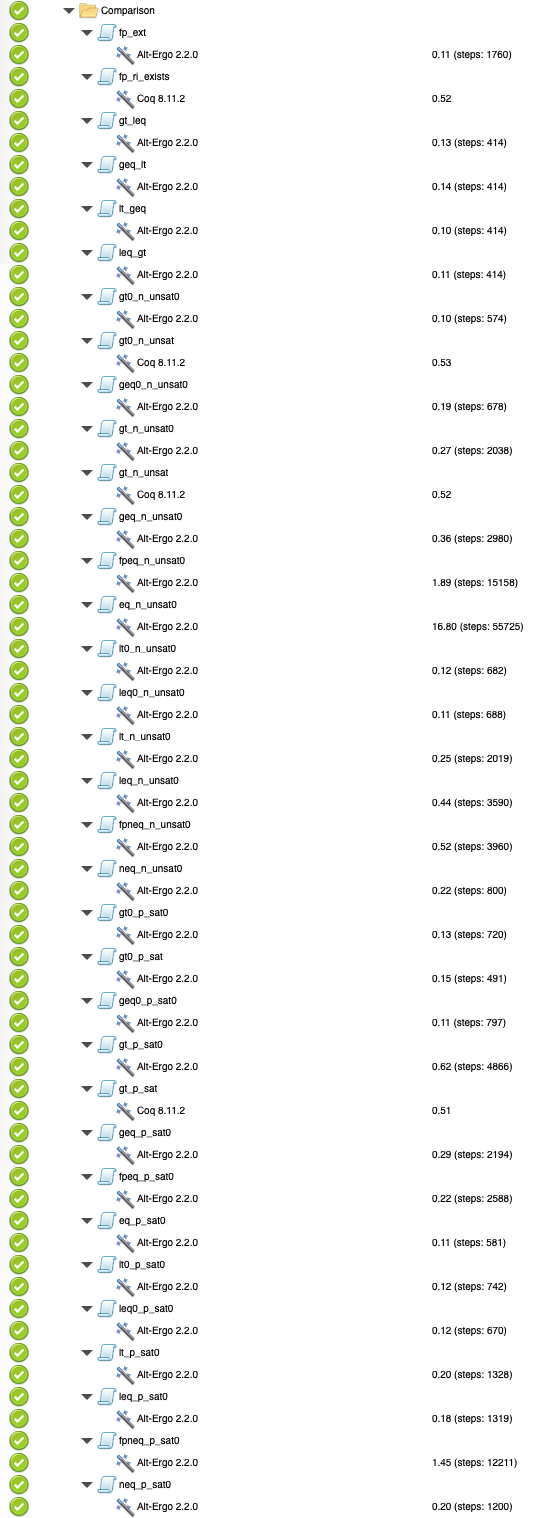
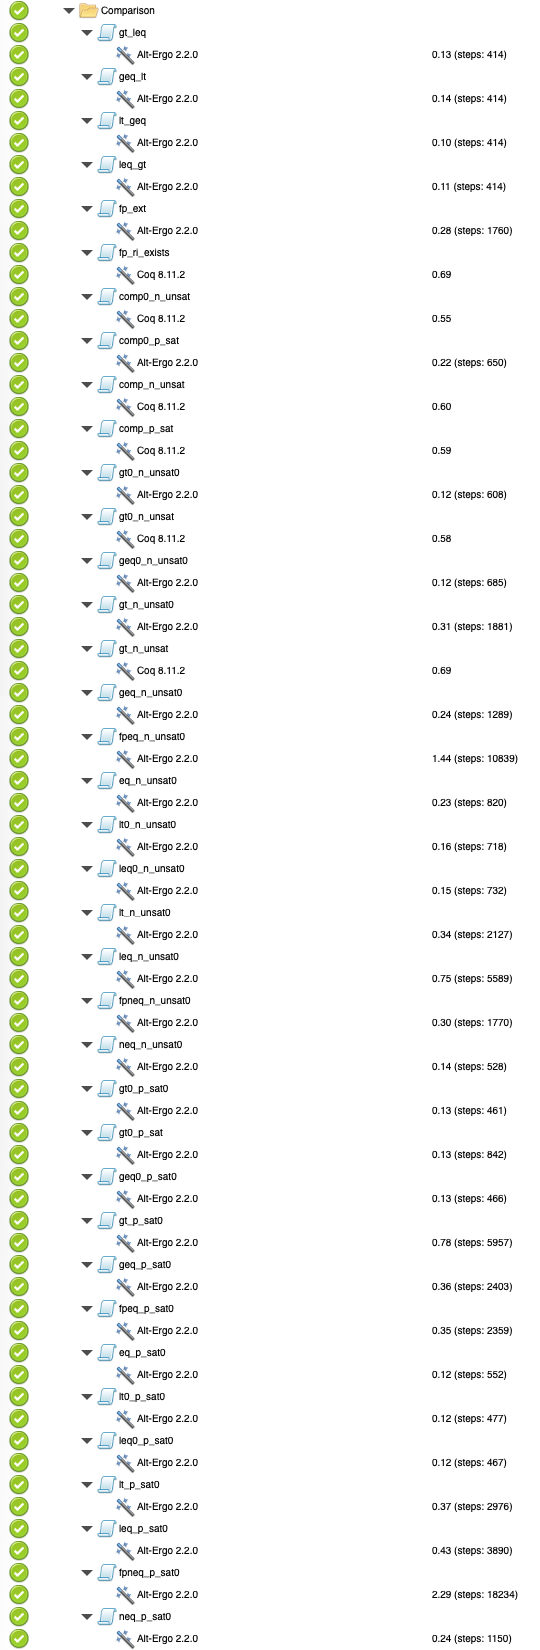
Modify the formalization of comparison operators.

Changed region(s): [[0.1481, 0.0, 0.3852, 1.0], [0.8, 0.031, 0.9481, 1.0], [0.0, 0.0, 0.0593, 1.0]]

diff --git a/README.md b/README.md
@@ -9,13 +9,15 @@ This repository aims to provide a correctness proof, which addresses the followi
     - Each operator is given two intervals as arguments that enclose FP numbers (that can be special values, i.e. infinities and NaN).
     - We verify that "*a resulting interval properly enclose the corresponding FP computation results*."
 - **Correctness of RIA comparison operators.**
-    - We consider two interval extensions (*negative* and *positive*) of comparison operators.
-        - Negative extensions are for negative literals in FPA logic formulas.
-        - Positive extensions are for positive literals.
+    - We consider two interval extensions, *weak* and *strong*, of comparison operators.
+        - Weak extensions are used for unsat checking of FPA logic formulas.
+        - Strong extensions are used for sat checking.
+    - We only consider comparisons between intervals or between an interval and zero.
     - We verify the following:
-        - "*If the negative extension is unsat, then so is the original literal*."
+        - Lemmas `*_n_unsat`: "*If the weak extension is unsat, then so is the original literal*."
         - "*If the strong extension is sat with intervals that contain FP numbers, then so is the original literal*."
-            - It is rephased as: "*If a literal is unsat, then, for any intervals that contain FP numbers, the strong extension is unsat*."
+            - We in fact verify the contraposition:
+            - Lemmas `*_p_sat`: "*If a literal is unsat, then, for any intervals that contain an FP number, the strong extension is unsat*."
 
 <br />
 
@@ -48,6 +50,8 @@ D. Ishii, T. Tomita and T. Aoki: Approximate Translation from Floating-Point to 
 
 
 ## Verification Result
+
+Used machine: MacBook Pro w/ 2GHz Intel Core i5 and 16GB RAM.
 
 <image src="images/rint_add.png" width="540" />
 <image src="images/rint_sub.png" width="540" />
